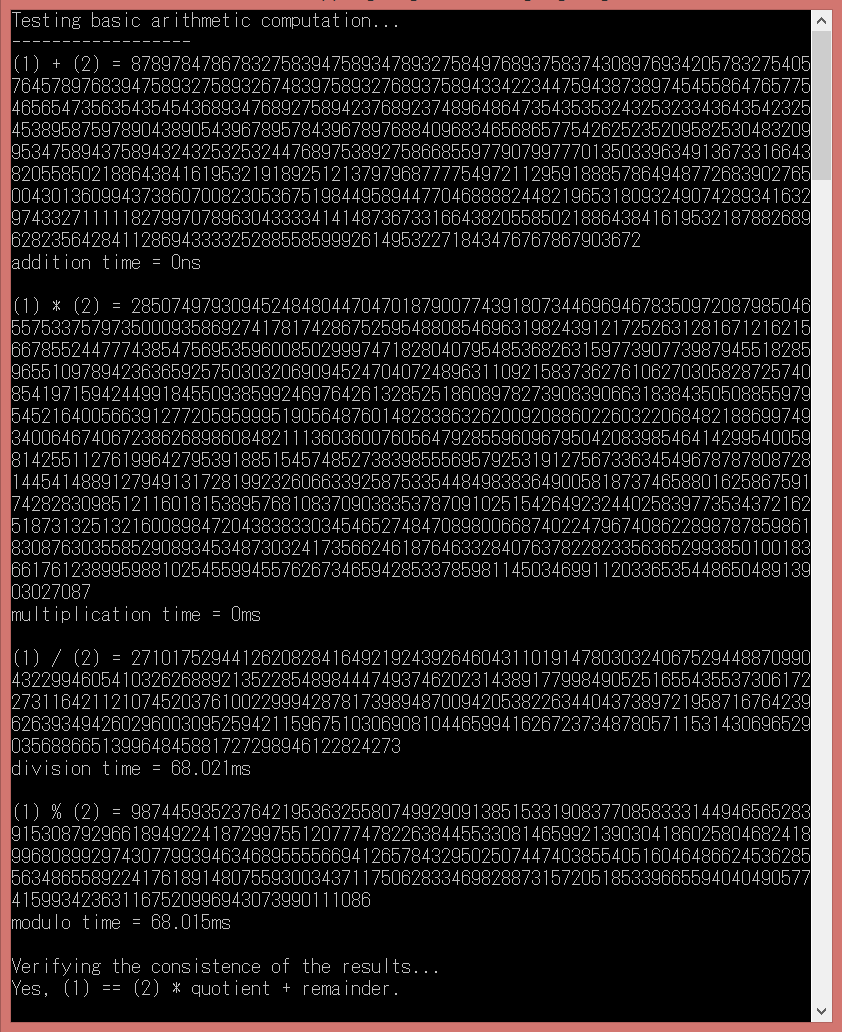
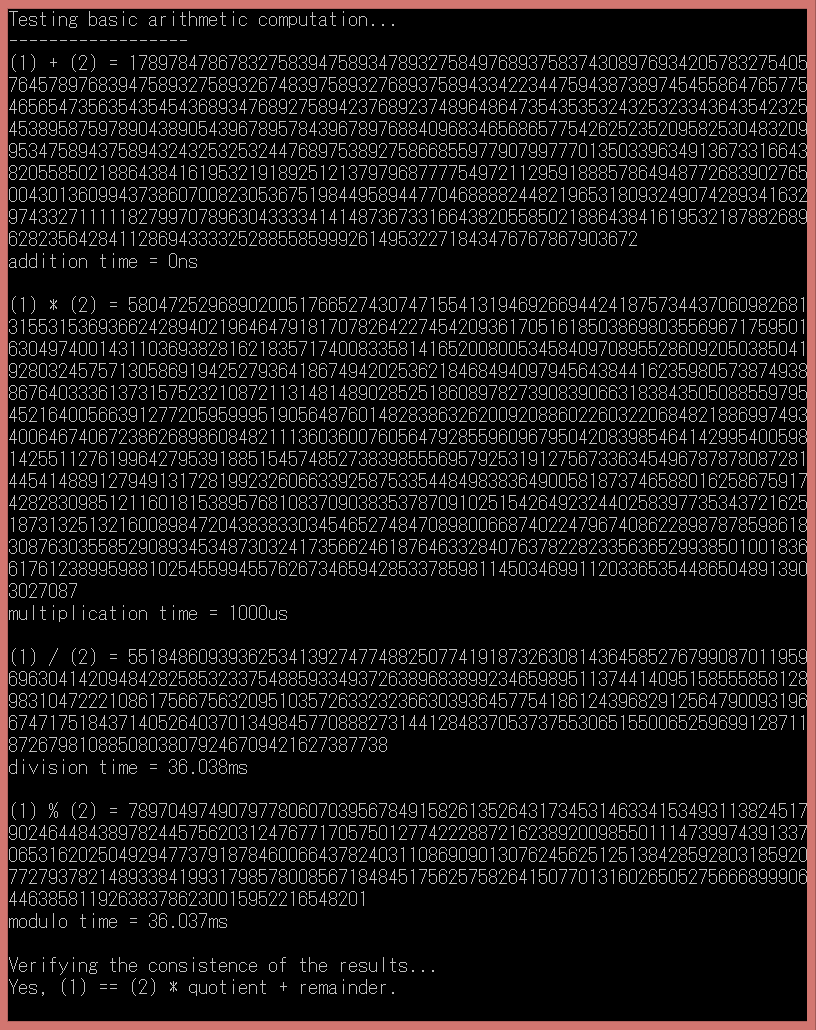
update for speed

Changed region(s): [[0.0, 0.0, 1.0, 0.9942]]

diff --git a/src/BigInteger.cpp b/src/BigInteger.cpp
@@ -34,23 +34,27 @@ BigInteger::BigInteger()
     set_sign(false);
 }
 
-BigInteger::BigInteger(int word)
+BigInteger::BigInteger(long long word)
 {
-    unsigned word_u = abs(word) % BASE;
-    set_word(word_u, 0);
-    set_zeros_ahead(find_zeros_ahead(word_u), 0);
-
-    word_u /= BASE;
-    if (word_u)
-    {
-        set_word(word_u, 1);
-        set_zeros_ahead(find_zeros_ahead(word_u), 1);
-    }
-
     if (word < 0)
         set_sign(true);
     else
         set_sign(false);
+
+    unsigned word_u = abs(word) % BASE;
+    set_word(word_u, 0);
+    set_zeros_ahead(find_zeros_ahead(word_u), 0);
+    word /= BASE;
+
+    unsigned i = 1;
+    while (word)
+    {
+        unsigned word_u = abs(word) % BASE;
+        word /= BASE;
+        set_word(word_u, i);
+        set_zeros_ahead(find_zeros_ahead(word_u), i);
+        i++;
+    }
 }
 
 BigInteger::BigInteger(string init_str)
@@ -420,24 +424,39 @@ static BigInteger divide_iteration(const BigInteger &dividend, const BigInteger 
 {
     BigInteger quo;
     unsigned divisor_words_len = divisor.get_words_len();
-    unsigned long long divisor_leadings = divisor_words_len > 1 ?
-        static_cast<unsigned long long>(divisor.get_words(divisor_words_len - 1)) * BASE + divisor.get_words(divisor_words_len - 2) :
-        static_cast<unsigned long long>(divisor.get_words(divisor_words_len - 1));
+    unsigned long long divisor_leadings = (divisor_words_len > 2 ?
+        static_cast<unsigned long long>(divisor.get_words(divisor_words_len - 1)) * BASE_SQR +
+            static_cast<unsigned long long>(divisor.get_words(divisor_words_len - 2)) * BASE +
+                divisor.get_words(divisor_words_len - 3) :
+        divisor_words_len > 1 ?
+            static_cast<unsigned long long>(divisor.get_words(divisor_words_len - 1)) * BASE +
+                divisor.get_words(divisor_words_len - 2) :
+            static_cast<unsigned long long>(divisor.get_words(divisor_words_len - 1)));
+    unsigned divisor_leadings_len = divisor_words_len > 2 ? 3 : divisor_words_len > 1 ? 2 : 1;
 
     BigInteger rem_k(dividend), quo_k;
     while (rem_k >= divisor)
     {
         unsigned rem_k_words_len = rem_k.get_words_len();
-        unsigned words_len_diff = rem_k_words_len - divisor_words_len;
-        double head = static_cast<double>(rem_k.get_words(rem_k_words_len - 1)) / divisor_leadings  * (divisor_words_len > 1 ? BASE : 1);
+        unsigned long long rem_k_leadings = (rem_k_words_len > 2 ?
+            static_cast<unsigned long long>(rem_k.get_words(rem_k_words_len - 1)) * BASE_SQR +
+                static_cast<unsigned long long>(rem_k.get_words(rem_k_words_len - 2)) * BASE +
+                    rem_k.get_words(rem_k_words_len - 3) :
+            rem_k_words_len > 1 ?
+                static_cast<unsigned long long>(rem_k.get_words(rem_k_words_len - 1)) * BASE +
+                    rem_k.get_words(rem_k_words_len - 2) :
+                static_cast<unsigned long long>(rem_k.get_words(rem_k_words_len - 1)));
+        unsigned rem_k_leadings_len = rem_k_words_len > 2 ? 3 : rem_k_words_len > 1 ? 2 : 1;
+        unsigned words_len_diff = rem_k_words_len - divisor_words_len - rem_k_leadings_len + divisor_leadings_len;
+        double head =  rem_k_leadings / static_cast<double>(divisor_leadings);
 
-        if (head < 1)
+        while (head < 1)
         {
             head *= BASE;
             --words_len_diff;
         }
 
-        quo_k = shift_10r2p(BigInteger(static_cast<unsigned>(head)), words_len_diff * SECTION_LEN);
+        quo_k = shift_10r2p(BigInteger(static_cast<unsigned long long>(head)), words_len_diff * SECTION_LEN);
         rem_k -= quo_k * divisor;
         quo += quo_k;
     }

diff --git a/include/pair.h b/include/pair.h
@@ -30,6 +30,10 @@ class Pair
                     seq = vector<unsigned>{0, 2, 1, 3};
                     return;
 
+                case 2:
+                    seq = vector<unsigned>{0, 4, 2, 6, 1, 5, 3, 7};
+                    return;
+
                 default:
                 {
                     vector<unsigned> par(N_reduced, 0);

diff --git a/include/BigInteger.h b/include/BigInteger.h
@@ -17,7 +17,7 @@ class BigInteger
         // no initializer
         BigInteger();
         // initialized by integer
-        BigInteger(int);
+        BigInteger(long long);
         // initialized by feagure string
         BigInteger(string);
         // initialized by computational BIs

diff --git a/include/define.h b/include/define.h
@@ -14,6 +14,7 @@
 #define ZERO_1_APX             "0"
 
 #define BASE                        1000000
+#define BASE_SQR                1000000000000
 #define SECTION_LEN            6
 #define SECTION_MAX           999999
 #define SECTION_ZERO         ZERO_6_APX
